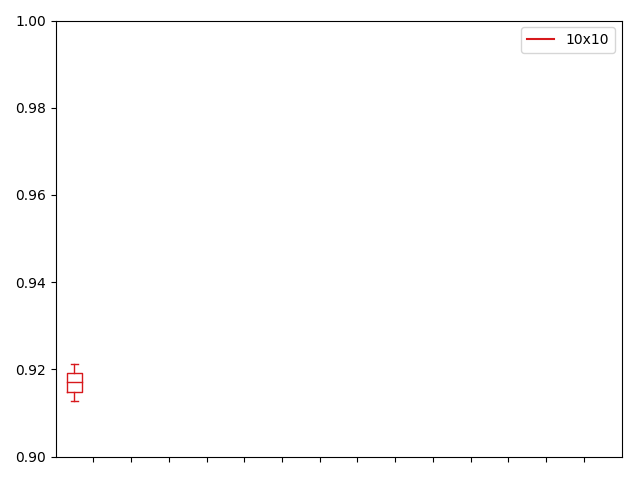
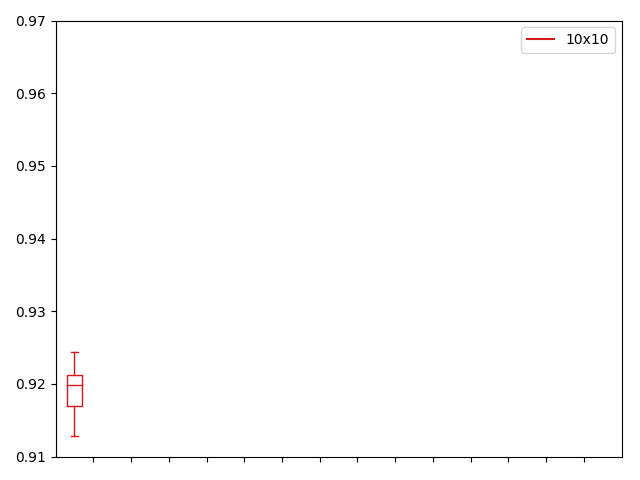
Finish 10x10

diff --git a/Projeto/plot/GridSize/Accuracy/accuracyPlotData.py b/Projeto/plot/GridSize/Accuracy/accuracyPlotData.py
@@ -1,7 +1,7 @@
 import matplotlib.pyplot as plt
 import numpy as np
 
-data_a = [[0.9212, 0.9128, 0.917, 0.9212]]
+data_a = [[0.9212,0.9128,0.917,0.9212,0.9212,0.9128,0.917,0.9212,0.9244,0.9186]]
 #data_b = [[6,4,2]]
 #data_c = [[5,4,1]]
 #data_d = [[5,4,3]]
@@ -81,6 +81,6 @@ plt.legend()
 
 plt.xticks(range(0, len(ticks) * 2, 2), ticks)
 plt.xlim(-2, len(ticks)*2)
-plt.ylim(0.9, 1)
+plt.ylim(0.91, 0.97)
 plt.tight_layout()
 plt.savefig('boxcompare.png')

diff --git a/Projeto/plot/GridSize/Errors/errorPlotData.py b/Projeto/plot/GridSize/Errors/errorPlotData.py
@@ -1,7 +1,7 @@
 import matplotlib.pyplot as plt
 import numpy as np
 
-data_a = [[126, 159, 142, 137]]
+data_a = [[20,20,21,18,16,23,22,19,19,16]]
 #data_b = [[6,4,2]]
 #data_c = [[5,4,1]]
 #data_d = [[5,4,3]]
@@ -81,6 +81,6 @@ plt.legend()
 
 plt.xticks(range(0, len(ticks) * 2, 2), ticks)
 plt.xlim(-2, len(ticks)*2)
-plt.ylim(100, 200)
+plt.ylim(0, 25)
 plt.tight_layout()
 plt.savefig('boxcompare.png')
